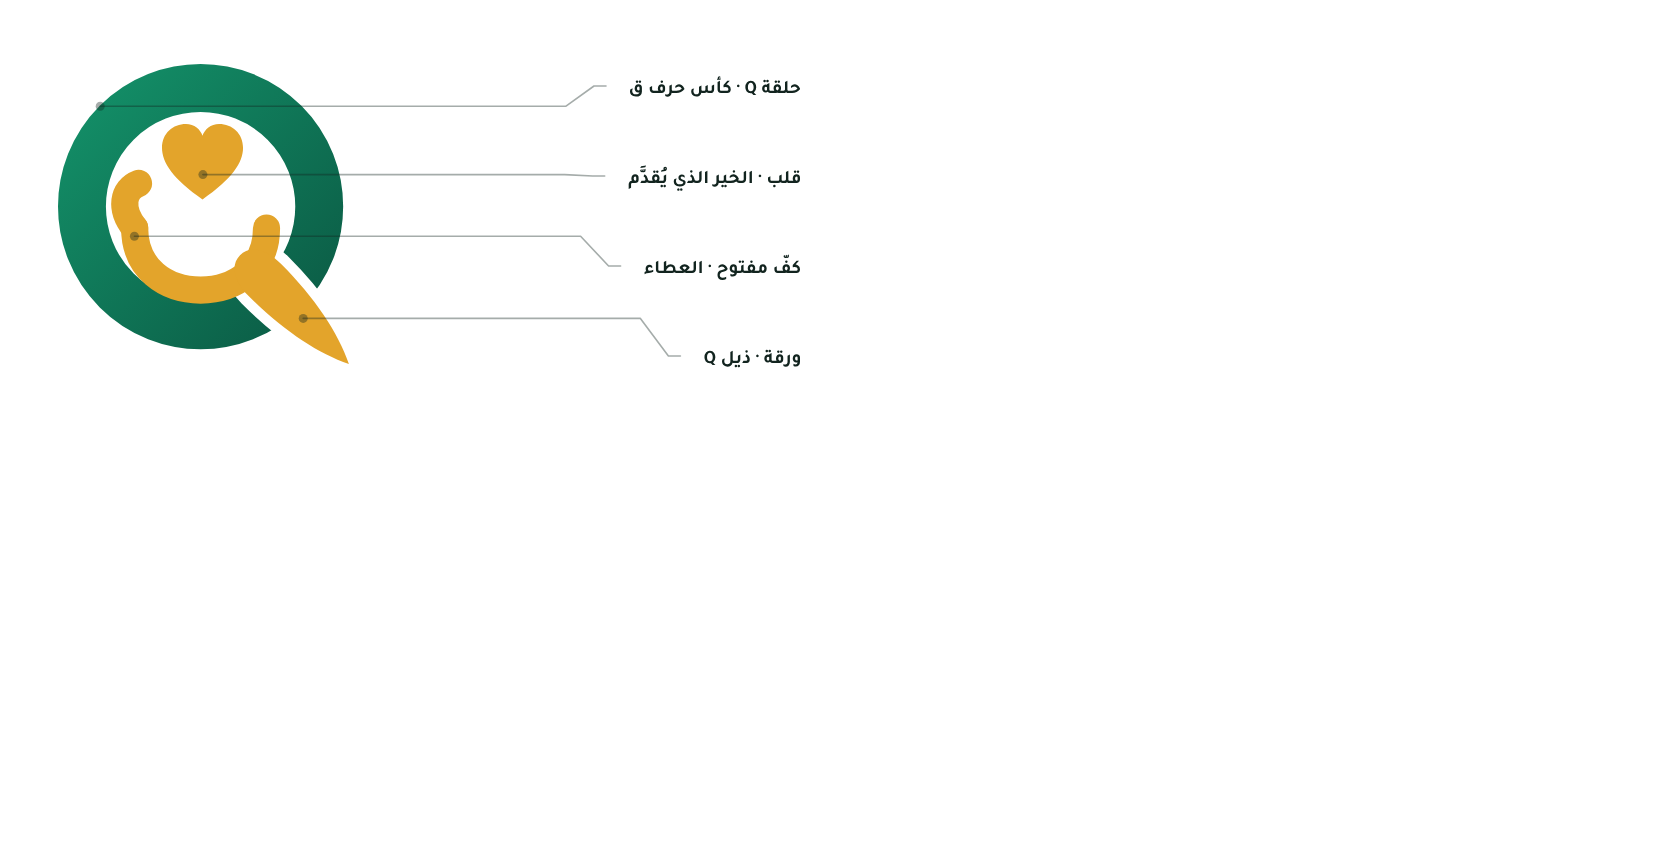
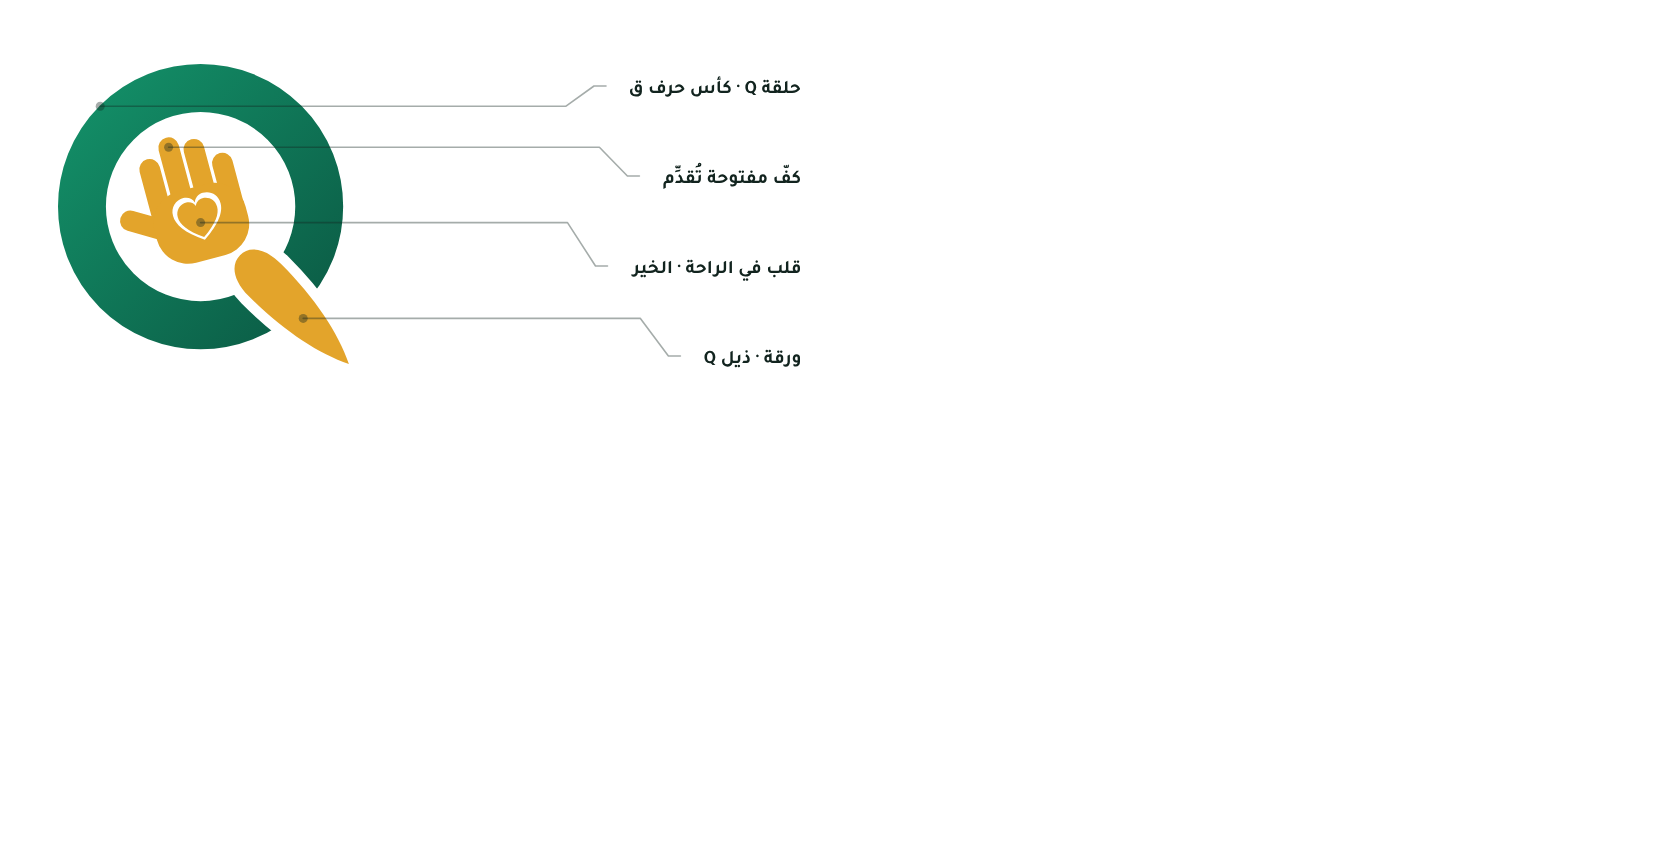
Draw the hand as a real hand
The cupped arc did not read as a hand. The mark now carries an open hand
with four fingers and a thumb, tilted as if presenting, and the heart is
knocked out of its palm so it reads on any background and in one colour.

- favicon simplified to ring + heart, since fingers close up below 32px;
  minimum size for the full mark raised to 32px in the guidelines
- all lockups, mono variants, app icon, PNG/ICO exports and the concept
  diagram regenerated

Claude-Session: https://claude.ai/code/session_01LFEZLNbpHHcGTMFhSMiQaG

diff --git a/brand/qadam-alkhair/preview.html b/brand/qadam-alkhair/preview.html
@@ -57,8 +57,8 @@
   <p style="margin:0 0 14px;color:var(--muted)">كفٌّ تُقدِّم الخير — وهو فعل الاسم نفسه.</p>
   <div class="idea">
     <div><b>الحلقة</b><br>حرف <code>Q</code> اللاتيني، وهو نفسه كأس حرف <b>ق</b> العربي.</div>
-    <div><b>الكفّ المفتوح</b><br>كفٌّ تُقدِّم ولا تأخذ — فعل الاسم نفسه: قدِّم.</div>
-    <div><b>القلب</b><br>الخير الذي يُقدَّم، محمولاً على الكفّ.</div>
+    <div><b>الكفّ المبسوطة</b><br>كفٌّ مفتوحة بأصابعها تُقدِّم ولا تقبض — فعل الاسم نفسه: قدِّم.</div>
+    <div><b>القلب في الراحة</b><br>الخير الذي يُقدَّم — مفرّغ من الكفّ فيظهر على أي خلفية.</div>
     <div><b>الورقة الذهبية</b><br>ذيل الـ<code>Q</code>، والذهبي لون القمح والرزق.</div>
     <div style="grid-column:1/-1;padding:0;border:0;background:transparent">
       <img src="logo/qadam-concept-diagram.svg" alt="شرح عناصر العلامة" style="width:100%"></div>

diff --git a/brand/qadam-alkhair/src/build.py b/brand/qadam-alkhair/src/build.py
@@ -68,21 +68,39 @@ def _open(uid, ring_fill, gradient):
 
 
 # ------------------------------------------------------------ the mark -------
-def mark(uid, ring_fill, hand_fill, heart_fill, gradient=None):
-    """Primary: an open hand offering a heart, inside the Q."""
+def _cap(x1, y1, x2, y2, w, fill):
+    return (f'<path d="M{x1},{y1} L{x2},{y2}" stroke="{fill}" stroke-width="{w}" '
+            f'stroke-linecap="round" fill="none"/>')
+
+
+def mark(uid, ring_fill, hand_fill, heart_fill=None, gradient=None, hand=True):
+    """Primary: an open hand carrying a heart in its palm, inside the Q.
+
+    The heart is knocked out of the hand, so it reads on any background and in
+    one colour. `hand=False` gives the simplified small-size mark (heart only).
+    """
     defs, ring_fill = _open(uid, ring_fill, gradient)
     defs.append(_tail_mask(uid))
-    k = INNER
-    hand = (f'<path d="M66,122 C66,143 82,154 100,154 C118,154 134,143 134,122" fill="none" '
-            f'stroke="{hand_fill}" stroke-width="14" stroke-linecap="round"/>'
-            f'<path d="M66,122 C58,112 60,102 68,99" fill="none" stroke="{hand_fill}" '
-            f'stroke-width="14" stroke-linecap="round"/>')
-    heart = (f'<g transform="translate(101 93) scale(0.95)">'
-             f'<path d="{HEART}" fill="{heart_fill}"/></g>')
-    inner = (f'<g transform="translate(100 118) scale({k}) translate(-100 -118)">{hand}{heart}</g>')
-    body = (f'<g transform="{SHIFT}">{_ring(uid, ring_fill)}{inner}'
-            f'{_tail(hand_fill)}</g>')
-    return "\n".join(defs), body
+    heart_at = ('<g transform="translate(48 57) scale({s})">'
+                '<path d="' + HEART + '" fill="{f}"/></g>')
+    if hand:
+        fingers = "".join(_cap(x, 52, x, top, 13, hand_fill) for x, top in
+                          [(26, 16), (41, 6), (56, 11), (71, 24)])
+        palm = f'<rect x="19" y="34" width="59" height="46" rx="20" fill="{hand_fill}"/>'
+        thumb = _cap(26, 56, 6, 44, 13, hand_fill)
+        defs.append(
+            f'<mask id="p{uid}" maskUnits="userSpaceOnUse" x="-40" y="-40" width="280" height="280">'
+            f'<rect x="-40" y="-40" width="280" height="280" fill="#fff"/>'
+            + heart_at.format(s=0.70, f="#000") + '</mask>')
+        inner = f'<g mask="url(#p{uid})">{fingers}{thumb}{palm}</g>'
+        if heart_fill:
+            inner += heart_at.format(s=0.58, f=heart_fill)
+        g = (f'<g transform="translate(98 112) rotate(-15) scale(0.70) translate(-48 -46)">'
+             f'{inner}</g>')
+    else:
+        g = (f'<g transform="translate(98 112) scale(1.25) translate(-48 -57)">'
+             + heart_at.format(s=1.0, f=hand_fill) + '</g>')
+    return "\n".join(defs), f'<g transform="{SHIFT}">{_ring(uid, ring_fill)}{g}{_tail(hand_fill)}</g>'
 
 
 # ------------------------------------------------------- alternate concepts ---

diff --git a/brand/qadam-alkhair/src/make_files.py b/brand/qadam-alkhair/src/make_files.py
@@ -8,16 +8,19 @@ from textpath import shape_to_path
 AR_TEXT, LA_TEXT = "قدم الخير", "QADAM ALKHAIR"
 
 def mark_variant(uid, style):
+    small = style.endswith("_small")
+    style = style[:-6] if small else style
+    kw = dict(hand=not small)
     if style == "color":
-        return B.mark(uid, None, C["gold"], C["gold"], (C["green_lt"], C["green_dk"]))
+        return B.mark(uid, None, C["gold"], gradient=(C["green_lt"], C["green_dk"]), **kw)
     if style == "on_dark":
-        return B.mark(uid, C["white"], C["gold_lt"], C["gold_lt"])
+        return B.mark(uid, C["white"], C["gold_lt"], **kw)
     if style == "mono_ink":
-        return B.mark(uid, C["ink"], C["ink"], C["ink"])
+        return B.mark(uid, C["ink"], C["ink"], **kw)
     if style == "mono_white":
-        return B.mark(uid, C["white"], C["white"], C["white"])
+        return B.mark(uid, C["white"], C["white"], **kw)
     if style == "mono_green":
-        return B.mark(uid, C["green"], C["green"], C["green"])
+        return B.mark(uid, C["green"], C["green"], **kw)
     raise ValueError(style)
 
 
@@ -117,7 +120,7 @@ def favicon(uid):
     """Tight-cropped mark for tiny sizes."""
     pad = 6
     s = (64 - 2 * pad) / (MARK_INK[3] - MARK_INK[1])
-    defs, body = mark_variant(uid, "color")
+    defs, body = mark_variant(uid, "color_small")
     w = (MARK_INK[2] - MARK_INK[0]) * s
     g = (f'<g transform="translate({(64 - w)/2 - MARK_INK[0]*s:.2f} {pad - MARK_INK[1]*s:.2f}) '
          f'scale({s:.5f})">{body}</g>')

diff --git a/brand/qadam-alkhair/src/diagram.py b/brand/qadam-alkhair/src/diagram.py
@@ -14,8 +14,8 @@ def to_canvas(x, y):
 
 ITEMS = [
     ((54.0, 68.0),   "حلقة Q · كأس حرف ق", 86),
-    ((99.0, 98.0),   "قلب · الخير الذي يُقدَّم", 176),
-    ((69.0, 125.0),  "كفّ مفتوح · العطاء", 266),
+    ((84.0, 86.0),   "كفّ مفتوحة تُقدِّم", 176),
+    ((98.0, 119.0),  "قلب في الراحة · الخير", 266),
     ((143.0, 161.0), "ورقة · ذيل Q", 356),
 ]
 

diff --git a/brand/qadam-alkhair/README.md b/brand/qadam-alkhair/README.md
@@ -13,8 +13,8 @@ that doubles as the Arabic **ق**, with a clear "khair" (goodness, growth, givin
 | العنصر | المعنى |
 | --- | --- |
 | **الحلقة** — the ring | حرف `Q` من الاسم اللاتيني، وفي نفس الوقت كأس/حوض حرف `ق` |
-| **الكفّ المفتوح** — the open hand | العطاء: كفٌّ تُقدِّم لا تأخذ — وهو فعل الاسم نفسه «قدِّم» |
-| **القلب** — the heart | الخير الذي يُقدَّم، محمولاً على الكفّ |
+| **الكفّ المبسوطة** — the open hand | كفٌّ مفتوحة بأصابعها تُقدِّم ولا تقبض — وهو فعل الاسم نفسه «قدِّم» |
+| **القلب في الراحة** — the heart in the palm | الخير الذي يُقدَّم؛ مفرّغ من الكفّ فيظهر على أي خلفية وبأي لون واحد |
 | **الورقة الذهبية** — the gold leaf | ذيل حرف `Q`، والذهبي لون القمح والرزق |
 
 العلامة كلها جملة واحدة: **كفٌّ تُقدِّم الخير.**
@@ -39,7 +39,7 @@ The mark reads as `Q` to a Latin eye and as `ق` to an Arabic eye — one shape,
 | `qadam-mark.svg` | العلامة فقط (أيقونة) |
 | `qadam-mark-mono-ink / -mono-white / -mono-green / -on-dark` | نسخ العلامة بلون واحد |
 | `qadam-app-icon.svg` | أيقونة تطبيق 512×512 بخلفية خضراء |
-| `qadam-favicon.svg` | نسخة مقصوصة للأحجام الصغيرة جداً |
+| `qadam-favicon.svg` | نسخة مبسّطة للأحجام الصغيرة جداً: الكفّ تُختصر إلى قلب داخل الحلقة |
 | `qadam-alt-wheat.svg` | بديل: سنبلة قمح بدل الذيل — رزق وخير |
 | `qadam-alt-word.svg` | بديل: كلمة «خير» داخل الحلقة |
 | `qadam-alt-sprout.svg` | بديل: نبتة تطلع من الحلقة |
@@ -85,7 +85,7 @@ The mark reads as `Q` to a Latin eye and as `ق` to an Arabic eye — one shape,
 
 **أصغر مقاس (minimum size):**
 * الشعار الأفقي: لا يقل عرضه عن **120 px** على الشاشة / **30 مم** طباعة.
-* العلامة وحدها: لا تقل عن **24 px** — وتحت ذلك استخدم `qadam-favicon.svg`.
+* العلامة وحدها: لا تقل عن **32 px** — وتحت ذلك استخدم `qadam-favicon.svg` المبسّطة، لأن أصابع الكفّ تلتحم في المقاسات الأصغر.
 
 **ممنوع · Don't:**
 1. لا تغيّر ألوان العلامة أو تستبدل الذهبي بلون آخر.
